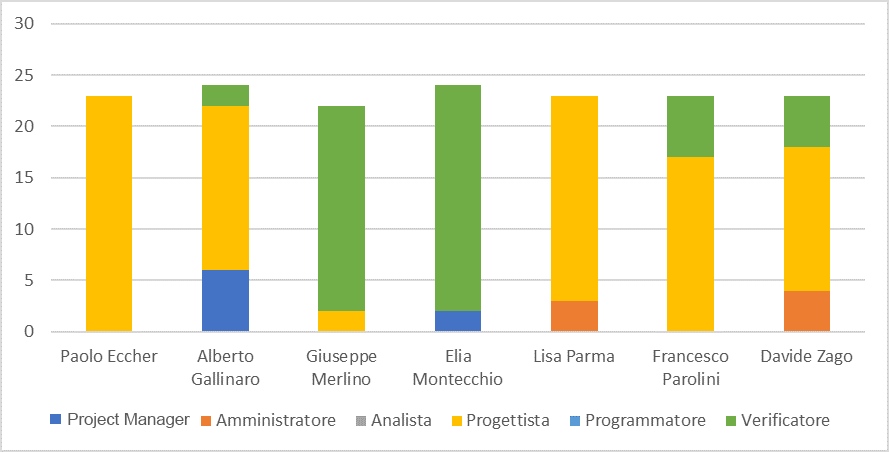
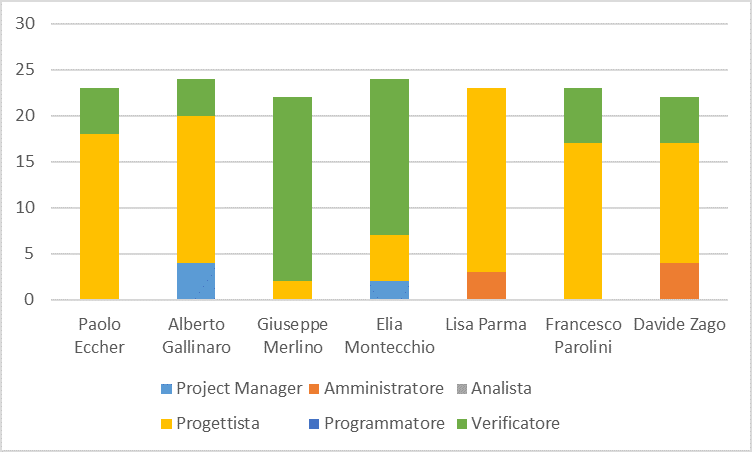
[PDP] robe

diff --git a/Docs/RP/PianoDiProgetto/Res/Sezioni/RiscontroDeiRischi.tex b/Docs/RP/PianoDiProgetto/Res/Sezioni/RiscontroDeiRischi.tex
@@ -7,7 +7,25 @@
 		\hlineB{3}
 		\thead{Rischio} &\thead{Riscontri Effettivi} &\thead{Contromisure adottate} \\
 		\hlineB{3}			
-		RXX  & miaoo & bauuu \\
+		RT1  & Alcuni componenti non erano familiari con Git e \LaTeX & Si sono organizzati degli incontri in cui i membri più esperti hanno potuto illustrare i comandi di Git e \LaTeX ai compagni meno esperti \\
+		\hline
+		RT2  & Nessuno & Nessuno \\
+		\hline
+		RT3  & Nessuno & Nessuno \\
+		\hline
+		RP1  & Nessuno & Nessuno \\
+		\hline
+		RP2  & Nessuno & Nessuno \\
+		\hline
+		RO1  & Nessuno & Nessuno \\
+		\hline
+		RS1  & Nessuno & Nessuno \\
+		\hline
+		RR1  & Vi sono state difficioltà nella comprensione dell'integrazione fra le diverse tecnologie utilizzate & Comunicazione di persona e via email con il proponente \\
+		\hline
+		RR2  & Nessuno & Nessuno \\
+		\hline
+		R02  & Nessuno & Nessuno \\
 		\hline
 	\end{tabular}
 	\caption{Riscontro dei Rischi - \textit{Analisi dei Requisiti di Massima}}
@@ -20,7 +38,25 @@
 		\hlineB{3}
 		\thead{Rischio} &\thead{Riscontri Effettivi} &\thead{Contromisure adottate} \\
 		\hlineB{3}			
-		RXX  & miaoo & bauuu \\
+		RT1  & Nessuno & Nessuno \\
+		\hline
+		RT2  & Nessuno & Nessuno \\
+		\hline
+		RT3  & Nessuno & Nessuno \\
+		\hline
+		RP1  & Nessuno & Nessuno \\
+		\hline
+		RP2  & Nessuno & Nessuno \\
+		\hline
+		RO1  & Le modifiche da attuare al documento \textit{Analisi dei Requisiti v1.0.0} sono risultate più onerose del previsto & Sono state attribuite allo svolgimento della correzione del documento più ore di quelle pianificate \\
+		\hline
+		RS1  & Nessuno & Nessuno \\
+		\hline
+		RR1  & Il requisito R0Q5 presente nell'\textit{Analisi dei Requisiti v1.0.0} non era stato compreso al meglio  & La comunicazione che abbiamo avuto con il proponente ci ha permesso di correggerlo \\
+		\hline
+		RR2  & Nessuno & Nessuno \\
+		\hline
+		RO2  & Nessuno & Nessuno \\
 		\hline
 	\end{tabular}
 	\caption{Riscontro dei Rischi - \textit{Analisi dei Requisiti di Dettaglio}}
@@ -33,7 +69,25 @@
 		\hlineB{3}
 		\thead{Rischio} &\thead{Riscontri Effettivi} &\thead{Contromisure adottate} \\
 		\hlineB{3}			
-		RXX  & miaoo & bauuu \\
+		RT1  & Nessuno componente del gruppo aveva mai utilizzato Kibana ed in fase di configurazione si sono avuti problemi & Si sono cercati tutorial online appositi e sono state organizzate giornate di lavoro appositamente per studiare Kibana \\
+		\hline
+		RT2  & Nessuno & Nessuno \\
+		\hline
+		RT3  & Nessuno & Nessuno \\
+		\hline
+		RP1  & Nessuno & Nessuno \\
+		\hline
+		RP2  & Due componenti del gruppo hanno dovuto assentarsi per 3 giorni durante l'attività & Il \textit{Project Manger} è stato avvertito in anticipo ed è stato in grado di riorganizzare il lavoro \\
+		\hline
+		RO1  & Nessuno & Nessuno \\
+		\hline
+		RS1  & Nessuno & Nessuno \\
+		\hline
+		RR1  & Nessuno & Nessuno \\
+		\hline
+		RR2  & \textcolor{red}{mettere quello di lisa} & Nessuno \\
+		\hline
+		RO2  & Nessuno & Nessuno \\
 		\hline
 	\end{tabular}
 	\caption{Riscontro dei Rischi - \textit{Progettazione architetturale}}

diff --git a/Docs/RP/PianoDiProgetto/Res/Sezioni/Organigramma.tex b/Docs/RP/PianoDiProgetto/Res/Sezioni/Organigramma.tex
@@ -1,4 +1,3 @@
-\appendix
 \section{Organigramma}
 	\subsection{Redazione}
 	\begin{table}[H]
@@ -7,11 +6,11 @@
 	\hline
 		\thead{Nome} &\thead{Data} &\thead{Firma} \\
 		\hline	
-		Alberto Gallinaro & 2018-01-06 & \includegraphics[width=2cm]{../../CommonImages/firme/alberto.png}  \\
+		Alberto Gallinaro & 2018-03-07 & \includegraphics[width=2cm]{../../CommonImages/firme/alberto.png}  \\
 		\hline
-		Davide Zago & 2018-01-06 & \includegraphics[width=2cm]{../../CommonImages/firme/davide.png} \\
+		Davide Zago & 2018-03-07 & \includegraphics[width=2cm]{../../CommonImages/firme/davide.png} \\
 		\hline
-		Paolo Eccher & 2018-01-06 & \includegraphics[width=2cm]{../../CommonImages/firme/paolo.png} \\
+		Paolo Eccher & 2018-03-07 & \includegraphics[width=2cm]{../../CommonImages/firme/paolo.png} \\
 		\hline
 	\end{tabular}
 	\caption{Redazione}
@@ -24,7 +23,7 @@
 			\hline
 			\thead{Nome} &\thead{Data} &\thead{Firma} \\
 			\hline			
-			Francesco Parolini & 2018-01-08 & \includegraphics[width=2cm]{../../CommonImages/firme/freppo.png}  \\
+			Francesco Parolini & 2018-03-08 & \includegraphics[width=2cm]{../../CommonImages/firme/freppo.png}  \\
 			\hline
 			Tullio Vardanega &  &  \\
 			\hline
@@ -41,19 +40,19 @@
 			\hline
 			\thead{Nome} &\thead{Data} &\thead{Firma} \\
 			\hline			
-			Paolo Eccher & 2018-01-10 & \includegraphics[width=2cm]{../../CommonImages/firme/paolo.png}  \\
+			Paolo Eccher & 2018-03-08 & \includegraphics[width=2cm]{../../CommonImages/firme/paolo.png}  \\
 			\hline
-			Alberto Gallinaro & 2018-01-10 & \includegraphics[width=2cm]{../../CommonImages/firme/alberto.png} \\
+			Alberto Gallinaro & 2018-03-08 & \includegraphics[width=2cm]{../../CommonImages/firme/alberto.png} \\
 			\hline
-			Giuseppe Merlino & 2018-01-10 & \includegraphics[width=2cm]{../../CommonImages/firme/giuseppe.png} \\
+			Giuseppe Merlino & 2018-03-08 & \includegraphics[width=2cm]{../../CommonImages/firme/giuseppe.png} \\
 			\hline
-			Elia Montecchio & 2018-01-10 & \includegraphics[width=2cm]{../../CommonImages/firme/elia.png} \\
+			Elia Montecchio & 2018-03-08 & \includegraphics[width=2cm]{../../CommonImages/firme/elia.png} \\
 			\hline
-			Lisa Parma & 2018-01-10 & \includegraphics[width=2cm]{../../CommonImages/firme/lisa.png} \\
+			Lisa Parma & 2018-03-08 & \includegraphics[width=2cm]{../../CommonImages/firme/lisa.png} \\
 			\hline
-			Francesco Parolini & 2018-01-10 & \includegraphics[width=2cm]{../../CommonImages/firme/freppo.png} \\
+			Francesco Parolini & 2018-03-08 & \includegraphics[width=2cm]{../../CommonImages/firme/freppo.png} \\
 			\hline
-			Davide Zago & 2018-01-10 & \includegraphics[width=2cm]{../../CommonImages/firme/davide.png} \\
+			Davide Zago & 2018-03-08 & \includegraphics[width=2cm]{../../CommonImages/firme/davide.png} \\
 			\hline
 		\end{tabular}
 		\caption{Accettazione componenti}

diff --git a/Docs/RP/PianoDiProgetto/Res/Sezioni/ConsuntivoEPreventivoAFinire.tex b/Docs/RP/PianoDiProgetto/Res/Sezioni/ConsuntivoEPreventivoAFinire.tex
@@ -1,4 +1,3 @@
-\appendix
 \section{Consuntivo e Preventivo a finire}
 Sono di seguito indicati i costi sostenuti effettivamente, in relazione alle spese rendicontate, per ogni ruolo.
 In corrispondenza di ogni attività del progetto viene redatto un bilancio che può essere:
@@ -152,7 +151,6 @@ Di seguito il dettaglio delle modifiche:
 \end{table}
 
 Tali dati sono riassunti graficamente nel seguente diagramma a barre:
-\textcolor{red}{VA RIFATTO!}
 \begin{figure}[H] 
 	\centering 
 	\includegraphics[width=0.9\textwidth]{images/BarreProgettazioneDiDettaglioNuova.png} 
@@ -372,7 +370,6 @@ Il totale delle ore rendicontate diventa quindi il seguente:
 \end{table}
 
 Tali dati sono riassunti graficamente nel seguente diagramma a barre:
-\textcolor{red}{VA RIFATTO!}
 \begin{figure}[H] 
 	\centering 
 	\includegraphics[width=0.9\textwidth]{images/BarreSoloRendicontatoNuovo.png} 
